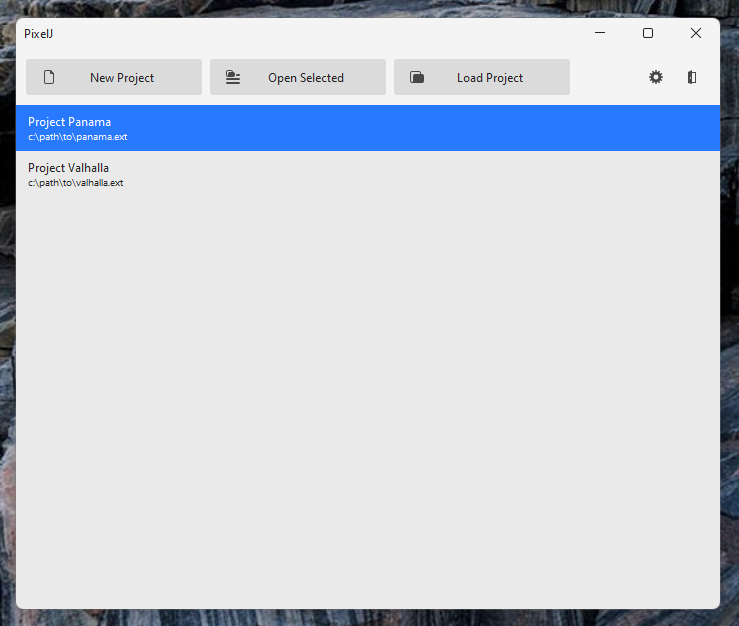
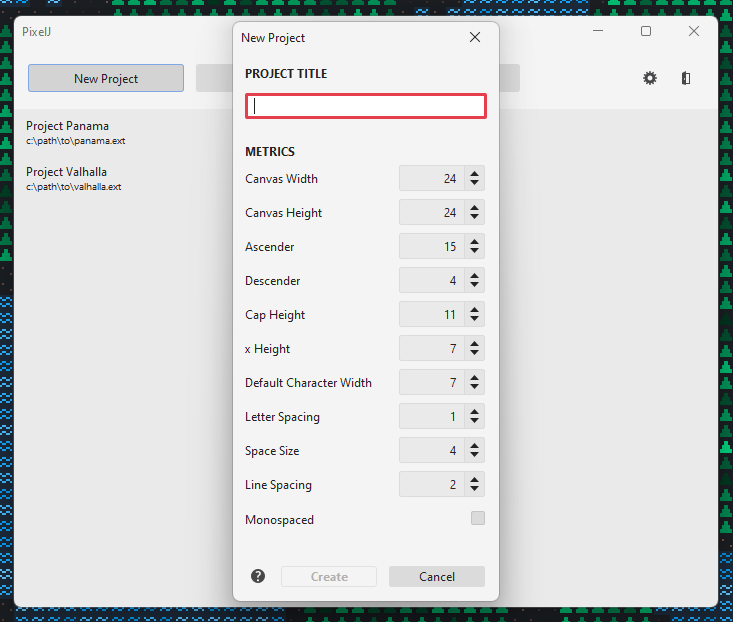
Rearrangements

Changed region(s): [[0.0, 0.0, 1.0, 1.0], [0.6003, 0.336, 0.6303, 0.3666]]

diff --git a/src/main/java/io/github/mimoguz/pixelj/views/NewProjectDialog.java b/src/main/java/io/github/mimoguz/pixelj/views/NewProjectDialog.java
@@ -23,7 +23,14 @@ import java.awt.event.KeyEvent;
 
 public class NewProjectDialog extends JDialog {
     private final JButton createButton = new JButton(Resources.get().getString("create"));
+    @SuppressWarnings("FieldCanBeLocal")
+    private final ChangeableBoolean.Listener inputValidationListener = (sender, valid) -> createButton.setEnabled(valid);
     private final JTextField titleField = new JTextField();
+    @SuppressWarnings("FieldCanBeLocal")
+    private final ChangeableBoolean.Listener titleValidationListener = (sender, valid) -> titleField.putClientProperty(
+            FlatClientProperties.OUTLINE,
+            valid ? null : FlatClientProperties.OUTLINE_ERROR
+    );
     private Project project;
 
     public NewProjectDialog(final Frame owner) {
@@ -34,36 +41,53 @@ public class NewProjectDialog extends JDialog {
         );
 
         final var res = Resources.get();
-        final var content = new JPanel(new BorderLayout(Dimensions.SMALL_PADDING, Dimensions.LARGE_PADDING * 2));
+
         final var metricsPanel = new MetricsPanel(Metrics.Builder.getDefault().build(), true);
         final var cancelButton = new JButton(res.getString("cancel"));
+        final var helpButton = new JButton();
 
-        final var validTitle = new ChangeableBoolean(false);
-        final ChangeableBoolean.Listener titleValidationListener = (sender, valid) -> titleField.putClientProperty(
-                FlatClientProperties.OUTLINE,
-                valid ? null : FlatClientProperties.OUTLINE_ERROR
-        );
+        final ChangeableBoolean validTitle = getValidTitle();
         validTitle.addChangeListener(titleValidationListener);
 
         final var canCreate = metricsPanel.validProperty.and(validTitle);
-        canCreate.addChangeListener((sender, valid) -> createButton.setEnabled(valid));
+        canCreate.addChangeListener(inputValidationListener);
 
-        final var helpAction = new ApplicationAction(
-                "metricsDialogHelpAction",
-                (event, action) -> {
-                }
-        ).setIcon(Icons.HELP, res.colors.icon(), res.colors.disabledIcon()).setAccelerator(KeyEvent.VK_F1, 0);
-        final var helpButton = new JButton(helpAction);
+        final var content = new JPanel(new BorderLayout(Dimensions.SMALL_PADDING, Dimensions.LARGE_PADDING * 2));
+        content.setBorder(Borders.LARGE_EMPTY);
 
-        createButton.addActionListener(e -> {
-            final var title = titleField.getText().trim();
-            if (metricsPanel.isMetricsValid() && !title.isBlank()) {
-                project = new Project(title, new SortedList<>(), new SortedList<>(), metricsPanel.getMetrics());
-            }
-            setVisible(false);
-        });
+        setupCreateButton(metricsPanel);
+        setupHelpButton(content, helpButton);
+        setupCancelButton(cancelButton);
+        setupTitlePanel(content);
+        setupCenterPanel(content, metricsPanel);
+        setupButtonPanel(content, cancelButton, helpButton);
 
-        cancelButton.addActionListener(e -> setVisible(false));
+        setContentPane(content);
+        getRootPane().setDefaultButton(createButton);
+        cancelButton.requestFocus();
+        pack();
+        metricsPanel.doLayout();
+        setResizable(false);
+        setLocationRelativeTo(owner);
+    }
+
+    public Project getProject() {
+        return project;
+    }
+
+    @Override
+    public void setVisible(final boolean value) {
+        if (value) {
+            project = null;
+            titleField.setText("");
+            titleField.putClientProperty(FlatClientProperties.OUTLINE, FlatClientProperties.OUTLINE_ERROR);
+            createButton.setEnabled(false);
+        }
+        super.setVisible(value);
+    }
+
+    private ChangeableBoolean getValidTitle() {
+        final var validTitle = new ChangeableBoolean(false);
         titleField.getDocument().addDocumentListener(new DocumentListener() {
             @Override
             public void changedUpdate(final DocumentEvent e) {
@@ -84,35 +108,10 @@ public class NewProjectDialog extends JDialog {
                 validTitle.setValue(!titleField.getText().trim().isBlank());
             }
         });
+        return validTitle;
+    }
 
-        Actions.registerShortcuts(java.util.List.of(helpAction), content);
-        Components.setFixedSize(createButton, Dimensions.TEXT_BUTTON_SIZE);
-        Components.setFixedSize(cancelButton, Dimensions.TEXT_BUTTON_SIZE);
-        helpButton.putClientProperty(
-                FlatClientProperties.BUTTON_TYPE,
-                FlatClientProperties.BUTTON_TYPE_BORDERLESS
-        );
-
-        content.setBorder(Borders.MEDIUM_EMPTY);
-
-        final var titlePanel = new JPanel(new BorderLayout(0, Dimensions.MEDIUM_PADDING));
-        final var titleLabel = new JLabel(res.getString("projectTitlePrompt"));
-        titleLabel.setBorder(BorderFactory.createEmptyBorder(0, 0, Dimensions.SMALL_PADDING, 0));
-        titleLabel.putClientProperty(FlatClientProperties.STYLE_CLASS, "h4");
-        titlePanel.add(titleLabel, BorderLayout.NORTH);
-        titlePanel.add(titleField, BorderLayout.CENTER);
-        content.add(titlePanel, BorderLayout.NORTH);
-
-        final var centerPanel = new JPanel(new BorderLayout());
-        final var metricsLabel = new JLabel(res.getString("metricsPanelTitle"));
-        metricsLabel.setBorder(BorderFactory.createEmptyBorder(0, 0, Dimensions.SMALL_PADDING, 0));
-        metricsLabel.putClientProperty(FlatClientProperties.STYLE_CLASS, "h4");
-        centerPanel.add(metricsLabel, BorderLayout.NORTH);
-        final var scroll = new JScrollPane(metricsPanel);
-        scroll.setBorder(Borders.EMPTY);
-        centerPanel.add(scroll, BorderLayout.CENTER);
-        content.add(centerPanel, BorderLayout.CENTER);
-
+    private void setupButtonPanel(final JPanel content, final JButton cancelButton, final JButton helpButton) {
         final var buttonPanel = new JPanel();
         buttonPanel.setLayout(new BoxLayout(buttonPanel, BoxLayout.X_AXIS));
         buttonPanel.add(helpButton);
@@ -123,30 +122,58 @@ public class NewProjectDialog extends JDialog {
         buttonPanel.add(cancelButton);
         buttonPanel.setBorder(Borders.EMPTY);
         content.add(buttonPanel, BorderLayout.SOUTH);
-
-        setContentPane(content);
-        getRootPane().setDefaultButton(cancelButton);
-        cancelButton.requestFocus();
-
-        pack();
-//        setSize(new Dimension(300, 600));
-        metricsPanel.doLayout();
-        setResizable(false);
-        setLocationRelativeTo(owner);
     }
 
-    public Project getProject() {
-        return project;
+    private void setupCancelButton(final JButton cancelButton) {
+        cancelButton.addActionListener(e -> setVisible(false));
+        Components.setFixedSize(cancelButton, Dimensions.TEXT_BUTTON_SIZE);
     }
 
-    @Override
-    public void setVisible(final boolean value) {
-        if (value) {
-            project = null;
-            titleField.setText("");
-            titleField.putClientProperty(FlatClientProperties.OUTLINE, FlatClientProperties.OUTLINE_ERROR);
-            createButton.setEnabled(false);
-        }
-        super.setVisible(value);
+    private void setupCenterPanel(final JPanel content, final MetricsPanel metricsPanel) {
+        final var centerPanel = new JPanel(new BorderLayout());
+        final var metricsLabel = new JLabel(Resources.get().getString("metricsPanelTitle"));
+        metricsLabel.setBorder(BorderFactory.createEmptyBorder(0, 0, Dimensions.SMALL_PADDING, 0));
+        metricsLabel.putClientProperty(FlatClientProperties.STYLE_CLASS, "h4");
+        centerPanel.add(metricsLabel, BorderLayout.NORTH);
+        final var scroll = new JScrollPane(metricsPanel);
+        scroll.setBorder(Borders.EMPTY);
+        centerPanel.add(scroll, BorderLayout.CENTER);
+        content.add(centerPanel, BorderLayout.CENTER);
+    }
+
+    private void setupCreateButton(final MetricsPanel metricsPanel) {
+        createButton.addActionListener(e -> {
+            final var title = titleField.getText().trim();
+            if (metricsPanel.isMetricsValid() && !title.isBlank()) {
+                project = new Project(title, new SortedList<>(), new SortedList<>(), metricsPanel.getMetrics());
+            }
+            setVisible(false);
+        });
+        Components.setFixedSize(createButton, Dimensions.TEXT_BUTTON_SIZE);
+    }
+
+    private void setupHelpButton(final JPanel content, final JButton helpButton) {
+        final var res = Resources.get();
+        final var helpAction = new ApplicationAction(
+                "metricsDialogHelpAction",
+                (event, action) -> {
+                }
+        ).setIcon(Icons.HELP, res.colors.icon(), res.colors.disabledIcon()).setAccelerator(KeyEvent.VK_F1, 0);
+        helpButton.setAction(helpAction);
+        helpButton.putClientProperty(
+                FlatClientProperties.BUTTON_TYPE,
+                FlatClientProperties.BUTTON_TYPE_BORDERLESS
+        );
+        Actions.registerShortcuts(java.util.List.of(helpAction), content);
+    }
+
+    private void setupTitlePanel(final JPanel content) {
+        final var titlePanel = new JPanel(new BorderLayout(0, Dimensions.MEDIUM_PADDING));
+        final var titleLabel = new JLabel(Resources.get().getString("projectTitlePrompt"));
+        titleLabel.setBorder(BorderFactory.createEmptyBorder(0, 0, Dimensions.SMALL_PADDING, 0));
+        titleLabel.putClientProperty(FlatClientProperties.STYLE_CLASS, "h4");
+        titlePanel.add(titleLabel, BorderLayout.NORTH);
+        titlePanel.add(titleField, BorderLayout.CENTER);
+        content.add(titlePanel, BorderLayout.NORTH);
     }
 }

diff --git a/src/main/java/io/github/mimoguz/pixelj/views/shared/Borders.java b/src/main/java/io/github/mimoguz/pixelj/views/shared/Borders.java
@@ -1,18 +1,64 @@
 package io.github.mimoguz.pixelj.views.shared;
 
-import javax.swing.BorderFactory;
+import javax.swing.*;
 import javax.swing.border.Border;
 
 public class Borders {
     public static final Border EMPTY = BorderFactory.createEmptyBorder();
-    public static final Border LIST_ITEM = BorderFactory.createEmptyBorder(4, 8, 4, 8);
-    public static final Border MEDIUM_EMPTY = BorderFactory.createEmptyBorder(8, 8, 8, 8);
-    public static final Border SMALL_EMPTY = BorderFactory.createEmptyBorder(4, 4, 4, 4);
+    public static final Border LARGE_EMPTY = BorderFactory.createEmptyBorder(
+            Dimensions.LARGE_PADDING,
+            Dimensions.LARGE_PADDING,
+            Dimensions.LARGE_PADDING,
+            Dimensions.LARGE_PADDING
+    );
+    public static final Border LIST_ITEM = BorderFactory.createEmptyBorder(
+            Dimensions.SMALL_PADDING,
+            Dimensions.MEDIUM_PADDING,
+            Dimensions.SMALL_PADDING,
+            Dimensions.MEDIUM_PADDING
+    );
+    public static final Border MEDIUM_EMPTY = BorderFactory.createEmptyBorder(
+            Dimensions.MEDIUM_PADDING,
+            Dimensions.MEDIUM_PADDING,
+            Dimensions.MEDIUM_PADDING,
+            Dimensions.MEDIUM_PADDING
+    );
+    public static final Border SMALL_EMPTY = BorderFactory.createEmptyBorder(
+            Dimensions.SMALL_PADDING,
+            Dimensions.SMALL_PADDING,
+            Dimensions.SMALL_PADDING,
+            Dimensions.SMALL_PADDING
+    );
     public static final Border SMALL_EMPTY_BOTTOM_CENTER_PANEL = BorderFactory
-            .createEmptyBorder(20, 4, 24, 0);
-    public static final Border SMALL_EMPTY_CENTER_PANEL = BorderFactory.createEmptyBorder(4, 4, 4, 0);
-    public static final Border SMALL_EMPTY_CUP = BorderFactory.createEmptyBorder(0, 4, 4, 4);
-    public static final Border SMALL_EMPTY_CUP_CENTER = BorderFactory.createEmptyBorder(0, 4, 4, 0);
-    public static final Border TITLE = BorderFactory.createEmptyBorder(12, 4, 12, 4);
-    public static final Border TITLE_CENTER = BorderFactory.createEmptyBorder(12, 4, 12, 0);
+            .createEmptyBorder(20, Dimensions.SMALL_PADDING, 24, 0);
+    public static final Border SMALL_EMPTY_CENTER_PANEL = BorderFactory.createEmptyBorder(
+            Dimensions.SMALL_PADDING,
+            Dimensions.SMALL_PADDING,
+            Dimensions.SMALL_PADDING,
+            0
+    );
+    public static final Border SMALL_EMPTY_CUP = BorderFactory.createEmptyBorder(
+            0,
+            Dimensions.SMALL_PADDING,
+            Dimensions.SMALL_PADDING,
+            Dimensions.SMALL_PADDING
+    );
+    public static final Border SMALL_EMPTY_CUP_CENTER = BorderFactory.createEmptyBorder(
+            0,
+            Dimensions.SMALL_PADDING,
+            Dimensions.SMALL_PADDING,
+            0
+    );
+    public static final Border TITLE = BorderFactory.createEmptyBorder(
+            Dimensions.LARGE_PADDING,
+            Dimensions.SMALL_PADDING,
+            Dimensions.LARGE_PADDING,
+            Dimensions.SMALL_PADDING
+    );
+    public static final Border TITLE_CENTER = BorderFactory.createEmptyBorder(
+            Dimensions.LARGE_PADDING,
+            Dimensions.SMALL_PADDING,
+            Dimensions.LARGE_PADDING,
+            0
+    );
 }

diff --git a/src/main/java/io/github/mimoguz/pixelj/views/HomeView.java b/src/main/java/io/github/mimoguz/pixelj/views/HomeView.java
@@ -27,16 +27,17 @@ public class HomeView extends JFrame {
         final var showOpenDialogButton = makeButton(actions.showOpenDialogAction);
 
         final var top = new JPanel(new BorderLayout());
-        top.setBorder(Borders.MEDIUM_EMPTY);
+        top.setBorder(Borders.LARGE_EMPTY);
 
         final var buttonBox = new JPanel();
         buttonBox.setLayout(new BoxLayout(buttonBox, BoxLayout.X_AXIS));
         buttonBox.add(newProjectButton);
-        buttonBox.add(Box.createHorizontalStrut(Dimensions.SMALL_PADDING));
+        buttonBox.add(Box.createHorizontalStrut(Dimensions.MEDIUM_PADDING));
         buttonBox.add(openProjectButton);
-        buttonBox.add(Box.createHorizontalStrut(Dimensions.SMALL_PADDING));
+        buttonBox.add(Box.createHorizontalStrut(Dimensions.MEDIUM_PADDING));
         buttonBox.add(showOpenDialogButton);
-        buttonBox.add(Box.createHorizontalStrut(Dimensions.SMALL_PADDING));
+        buttonBox.add(Box.createHorizontalStrut(Dimensions.MEDIUM_PADDING));
+        buttonBox.add(Box.createHorizontalStrut(Dimensions.MEDIUM_PADDING));
         top.add(buttonBox, BorderLayout.WEST);
 
         final var toolBar = new JToolBar();
@@ -92,31 +93,9 @@ public class HomeView extends JFrame {
     }
 
     private static JButton makeButton(ApplicationAction action) {
-        final var button = new JButton();
-//        button.putClientProperty(FlatClientProperties.BUTTON_TYPE, FlatClientProperties.BUTTON_TYPE_BORDERLESS);
-        Components.setFixedSize(button, Dimensions.HOME_BUTTON_SIZE);
-        button.setAction(action);
+        final var button = new JButton(action);
         button.setIcon(null);
-        button.setText(null);
-        final var content = new JPanel(new BorderLayout());
-        content.setOpaque(false);
-        if (action.getValue(Action.SMALL_ICON) instanceof Icon icon) {
-            final var iconLabel = new JLabel();
-            iconLabel.setIcon(icon);
-            content.add(iconLabel, BorderLayout.WEST);
-        }
-        if (action.getValue(Action.NAME) instanceof String name) {
-            final var label = new JLabel(name);
-            label.setBorder(BorderFactory.createEmptyBorder(
-                    0,
-                    Dimensions.MEDIUM_PADDING,
-                    0,
-                    Dimensions.MEDIUM_PADDING
-            ));
-            label.setHorizontalAlignment(SwingConstants.CENTER);
-            content.add(label, BorderLayout.CENTER);
-        }
-        button.add(content);
+        Components.setFixedSize(button, Dimensions.HOME_BUTTON_SIZE);
         return button;
     }
 

diff --git a/src/main/java/io/github/mimoguz/pixelj/views/MetricsDialog.java b/src/main/java/io/github/mimoguz/pixelj/views/MetricsDialog.java
@@ -50,7 +50,7 @@ public class MetricsDialog extends JDialog {
         final var content = new JPanel();
         final var contentLayout = new BorderLayout(Dimensions.MEDIUM_PADDING, Dimensions.LARGE_PADDING * 2);
         content.setLayout(contentLayout);
-        content.setBorder(Borders.MEDIUM_EMPTY);
+        content.setBorder(Borders.LARGE_EMPTY);
 
         final var helpAction = new ApplicationAction(
                 "metricsDialogHelpAction",
@@ -83,7 +83,6 @@ public class MetricsDialog extends JDialog {
         getRootPane().setDefaultButton(cancelButton);
 
         pack();
-//        setSize(300, 500);
         inputPanel.doLayout();
         setResizable(false);
         setLocationRelativeTo(owner);

diff --git a/src/main/java/io/github/mimoguz/pixelj/views/shared/Dimensions.java b/src/main/java/io/github/mimoguz/pixelj/views/shared/Dimensions.java
@@ -3,7 +3,7 @@ package io.github.mimoguz.pixelj.views.shared;
 import java.awt.*;
 
 public class Dimensions {
-    public static final Dimension HOME_BUTTON_SIZE = new Dimension(180, 40);
+    public static final Dimension HOME_BUTTON_SIZE = new Dimension(160, 32);
     public static final int LARGE_PADDING = 12;
     public static final Dimension LARGE_SQUARE = new Dimension(12, 12);
     public static final Dimension LETTER_BOX_SIZE = new Dimension(24, 24);

diff --git a/src/main/java/io/github/mimoguz/pixelj/actions/HomeActions.java b/src/main/java/io/github/mimoguz/pixelj/actions/HomeActions.java
@@ -96,6 +96,7 @@ public class HomeActions {
         final var dialog = new NewProjectDialog((Frame) SwingUtilities.getWindowAncestor(root));
         dialog.setVisible(true);
         final var project = dialog.getProject();
+        dialog.dispose();
         if (project != null) {
             showProject(project);
         }

diff --git a/src/main/java/io/github/mimoguz/pixelj/Main.java b/src/main/java/io/github/mimoguz/pixelj/Main.java
@@ -8,7 +8,7 @@ import io.github.mimoguz.pixelj.views.HomeView;
 import javax.swing.*;
 
 public class Main {
-    private static final boolean USE_DARK_THEME = true;
+    private static final boolean USE_DARK_THEME = false;
 
     public static void main(final String[] args) {
         if (USE_DARK_THEME) {
